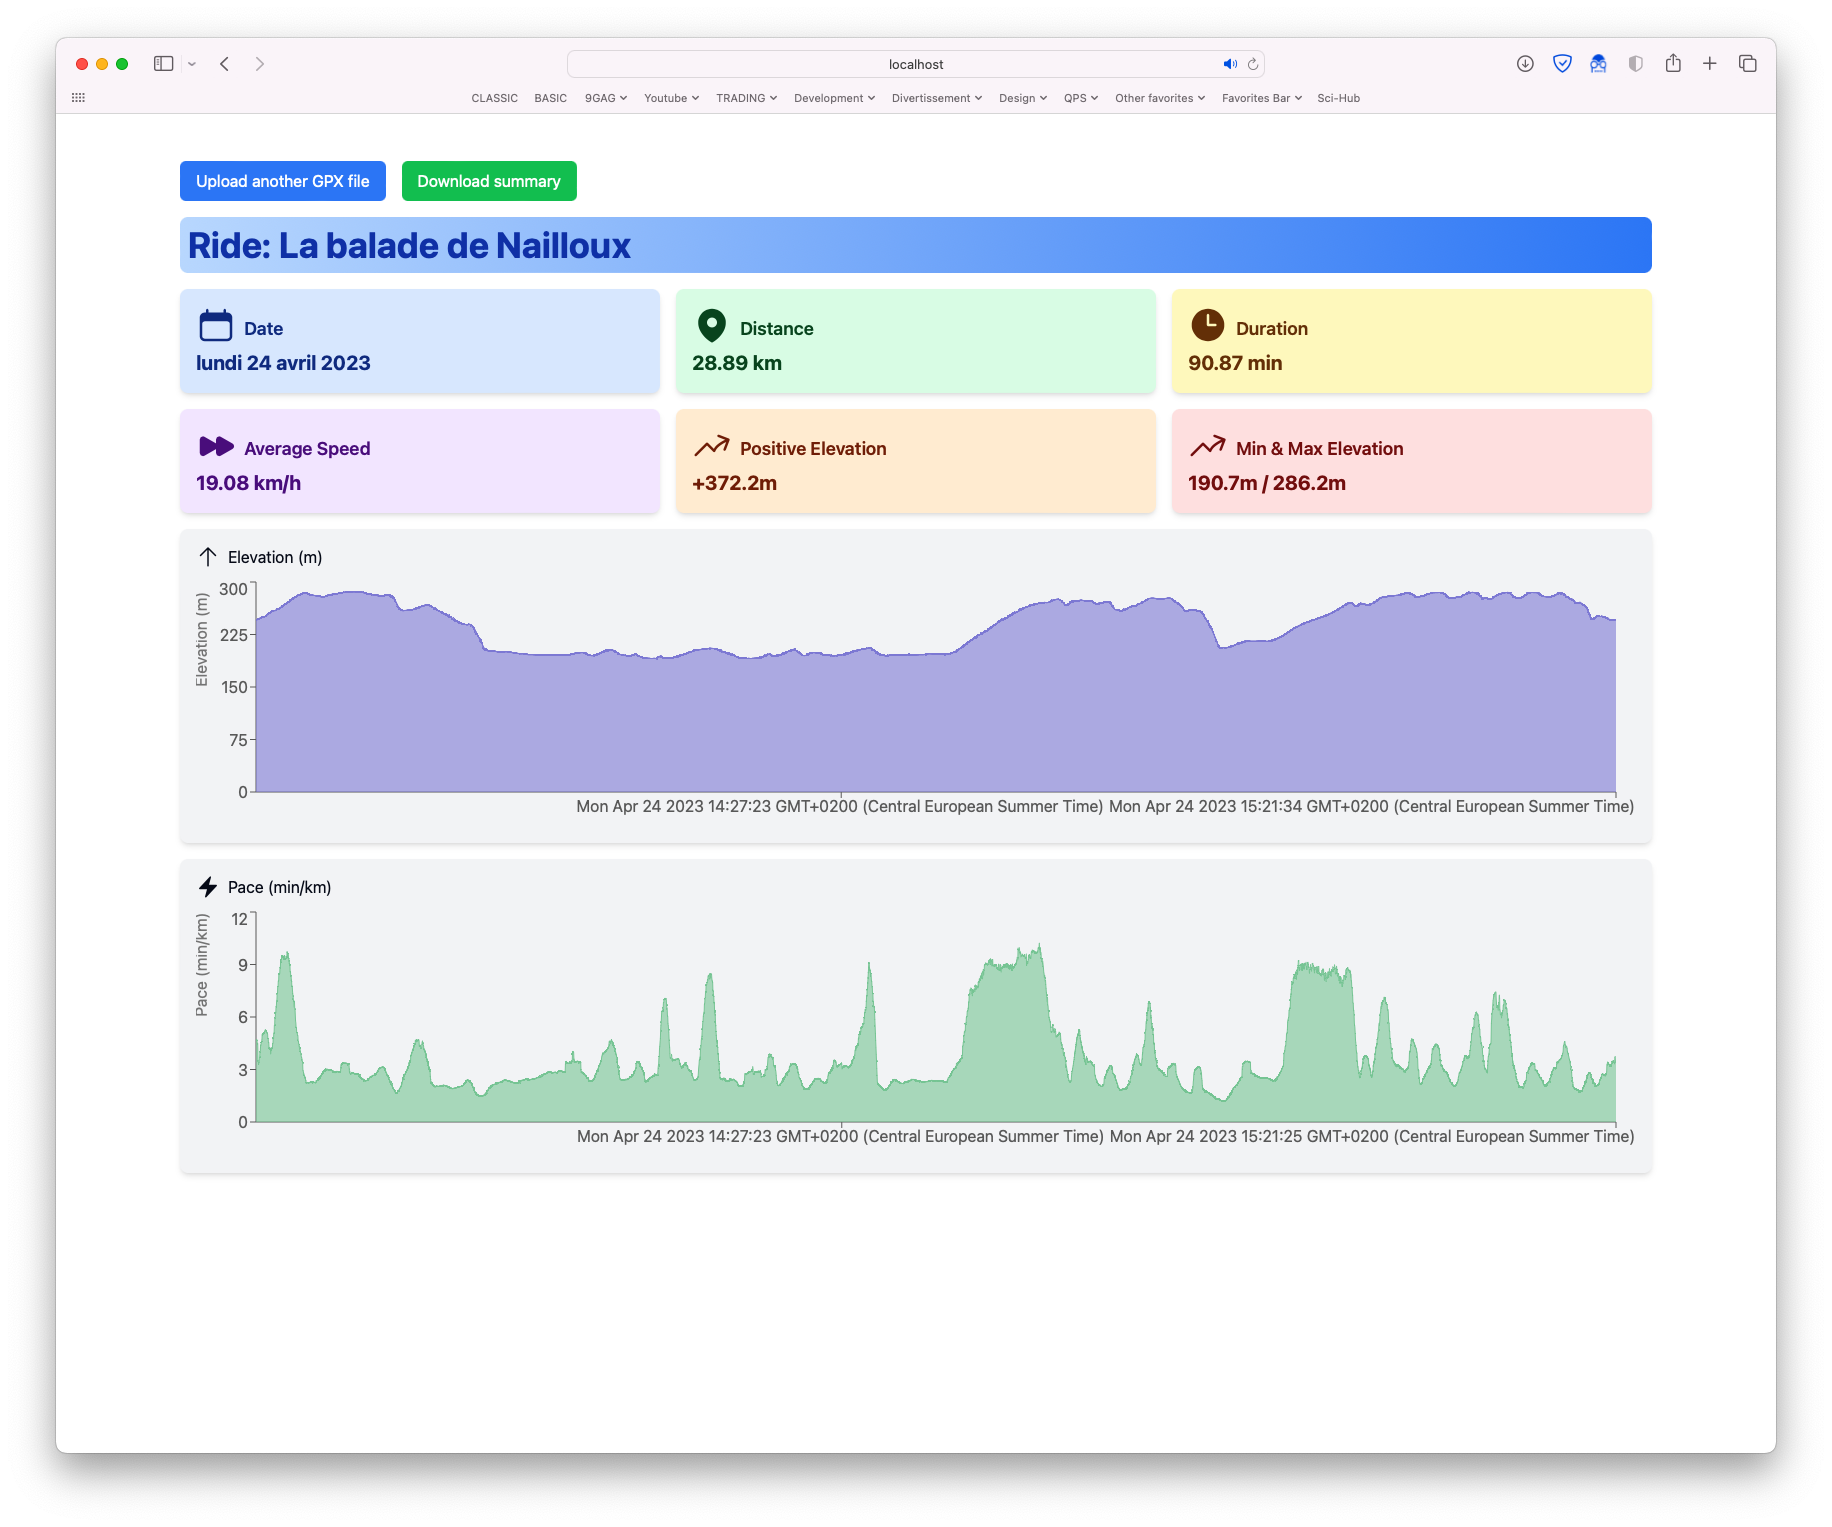
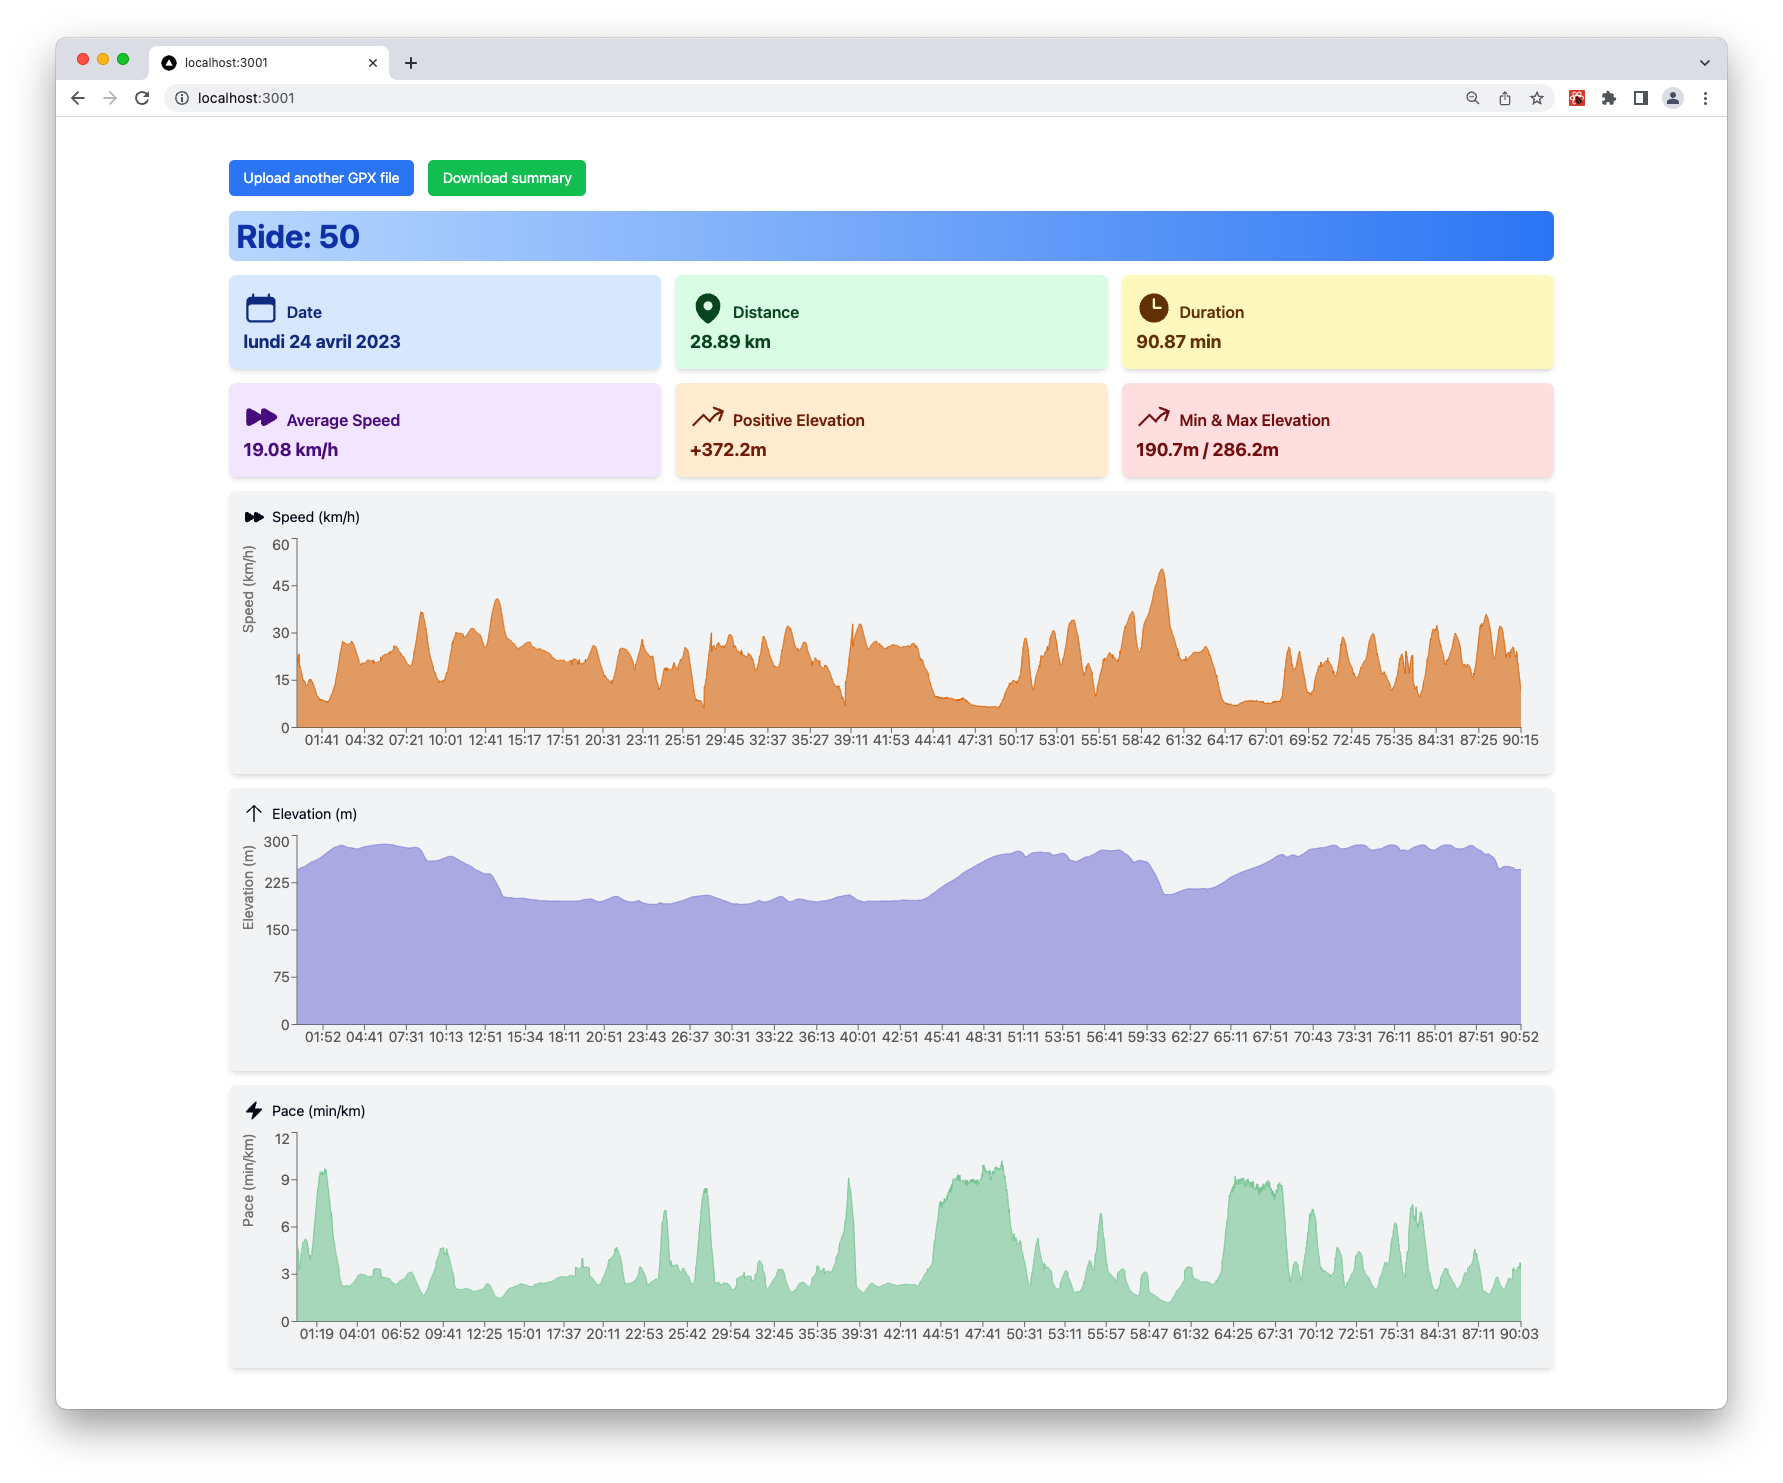
add more info + update image readme

diff --git a/src/utils/gpxParser.js b/src/utils/gpxParser.js
@@ -1,4 +1,5 @@
 import gpxParser from "gpxparser"
+import { format } from "date-fns"
 
 export const parseGPX = async (file) => {
   return new Promise((resolve, reject) => {
@@ -27,7 +28,8 @@ export const parseGPX = async (file) => {
           elevation: point.ele
         }))
 
-        const paceData = movingAverage(calculatePace(points), 30)
+        const speedData = movingAverage(calculateSpeed(points), "speed", 30)
+        const paceData = movingAverage(calculatePace(points), "pace", 30)
 
         const averageSpeed = distance / (duration / 60)
 
@@ -41,6 +43,7 @@ export const parseGPX = async (file) => {
           distance,
           duration,
           elevationData,
+          speedData,
           paceData,
           averageSpeed,
           minElevation,
@@ -61,7 +64,7 @@ export const parseGPX = async (file) => {
   })
 }
 
-const calculatePace = (points) => {
+function calculatePace(points) {
   const paceData = []
   for (let i = 1; i < points.length; i++) {
     const prevPoint = points[i - 1]
@@ -79,20 +82,47 @@ const calculatePace = (points) => {
     const minDistance = 0.001 // 1 meter
 
     if (timeDifference > 0 && distance > minDistance) {
-      const pace = timeDifference / distance
+      let pace = timeDifference / distance
 
-      if (pace > 300) continue // Ignore pace slower than 300 min/km
+      if (pace > 300) continue // Ignore pace > 300 min/km
 
       paceData.push({
         time: currPoint.time,
-        pace: pace
+        pace
       })
     }
   }
   return paceData
 }
 
-const getDistance = (point1, point2) => {
+function calculateSpeed(points) {
+  const speedData = []
+  for (let i = 1; i < points.length; i++) {
+    const prevPoint = points[i - 1]
+    const currPoint = points[i]
+
+    const time1 = new Date(prevPoint.time)
+    const time2 = new Date(currPoint.time)
+    const timeDifference = ((time2 - time1) / 1000) * 60 * 60 // Time difference in minutes
+
+    const distance = getDistance(
+      [prevPoint.lat, prevPoint.lon],
+      [currPoint.lat, currPoint.lon]
+    ) // Distance in kilometers
+
+    const speed = distance * timeDifference // Speed in km/h
+
+    if (speed < 1000) {
+      speedData.push({
+        time: currPoint.time,
+        speed
+      })
+    }
+  }
+  return speedData
+}
+
+function getDistance(point1, point2) {
   const [lat1, lon1] = point1
   const [lat2, lon2] = point2
 
@@ -111,16 +141,40 @@ const getDistance = (point1, point2) => {
   return R * c
 }
 
-const movingAverage = (data, windowSize) => {
+// function movingAverage(data, valueKey, windowSize) {
+//   if (windowSize <= 1) {
+//     return data
+//   }
+
+//   const result = []
+//   let sum = 0
+
+//   for (let i = 0; i < data.length; i++) {
+//     sum += data[i][valueKey]
+
+//     if (i >= windowSize) {
+//       sum -= data[i - windowSize][valueKey]
+//     }
+
+//     const average = sum / Math.min(i + 1, windowSize)
+//     result.push({
+//       ...data[i],
+//       [valueKey]: average
+//     })
+//   }
+
+//   return result
+// }
+
+function movingAverage(data, valueKey, windowSize) {
   const result = []
   for (let i = 0; i < data.length - windowSize + 1; i++) {
     const windowData = data.slice(i, i + windowSize)
     const average =
-      windowData.reduce((sum, value) => sum + parseFloat(value.pace), 0) /
-      windowSize
+      windowData.reduce((sum, value) => sum + value[valueKey], 0) / windowSize
     result.push({
       time: windowData[windowSize - 1].time,
-      pace: average.toFixed(2)
+      [valueKey]: parseFloat(average.toFixed(2))
     })
   }
   return result

diff --git a/src/components/AreaChartCard.js b/src/components/AreaChartCard.js
@@ -16,6 +16,12 @@ const AreaChartCard = ({
   yAxisLabel,
   Icon
 }) => {
+  const startDate = data[0].time.getTime()
+  data = data.map((item) => ({
+    ...item,
+    time: toHoursAndMinutes((item.time.getTime() - startDate) / 1000)
+  }))
+
   return (
     <div className="p-4 rounded-lg shadow-md bg-gray-100 text-gray-900">
       <div className="flex items-center mb-2">
@@ -24,6 +30,7 @@ const AreaChartCard = ({
       </div>
       <ResponsiveContainer width="100%" height={250}>
         <AreaChart
+          syncId="anyId"
           className={`${className}`}
           width={500}
           height={250}
@@ -40,6 +47,16 @@ const AreaChartCard = ({
       </ResponsiveContainer>
     </div>
   )
+}
+
+function toHoursAndMinutes(totalSeconds) {
+  const seconds = totalSeconds % 60
+  const minutes = Math.floor(totalSeconds / 60)
+
+  const seconds_str = seconds < 10 ? `0${seconds}` : seconds
+  const minutes_str = minutes < 10 ? `0${minutes}` : minutes
+
+  return `${minutes_str}:${seconds_str}`
 }
 
 export default AreaChartCard

diff --git a/src/pages/index.js b/src/pages/index.js
@@ -25,6 +25,7 @@ const Index = () => {
   const handleFileChange = async (event) => {
     const file = event.target.files[0]
     const parsedData = await parseGPX(file)
+    console.log(parsedData)
     setFileData(parsedData)
   }
 
@@ -92,6 +93,14 @@ const Index = () => {
                 />
               </div>
               <div className="charts-section grid grid-cols-1 gap-4">
+                <AreaChartCard
+                  Icon={ForwardIcon}
+                  data={fileData.speedData}
+                  dataKey="speed"
+                  stroke="#dc6e00"
+                  fill="#dc6e00"
+                  yAxisLabel="Speed (km/h)"
+                />
                 <AreaChartCard
                   Icon={ArrowUpIcon}
                   data={fileData.elevationData}
